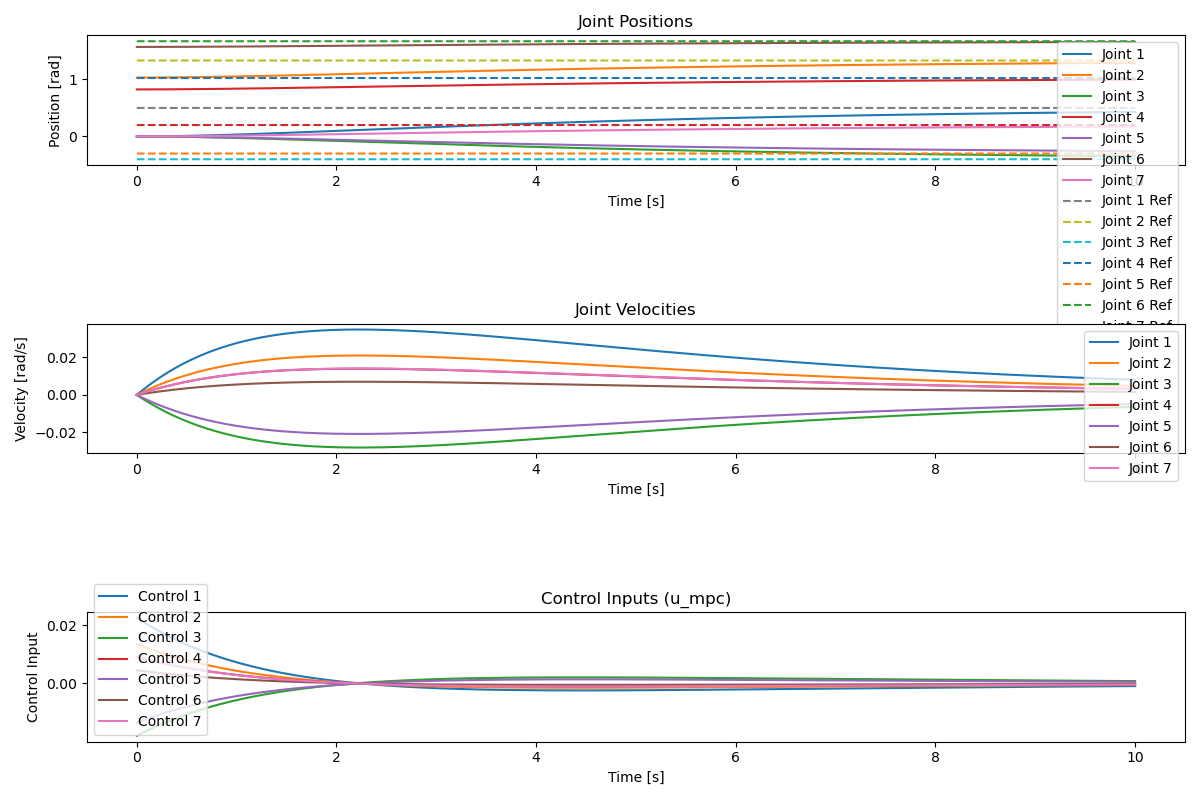
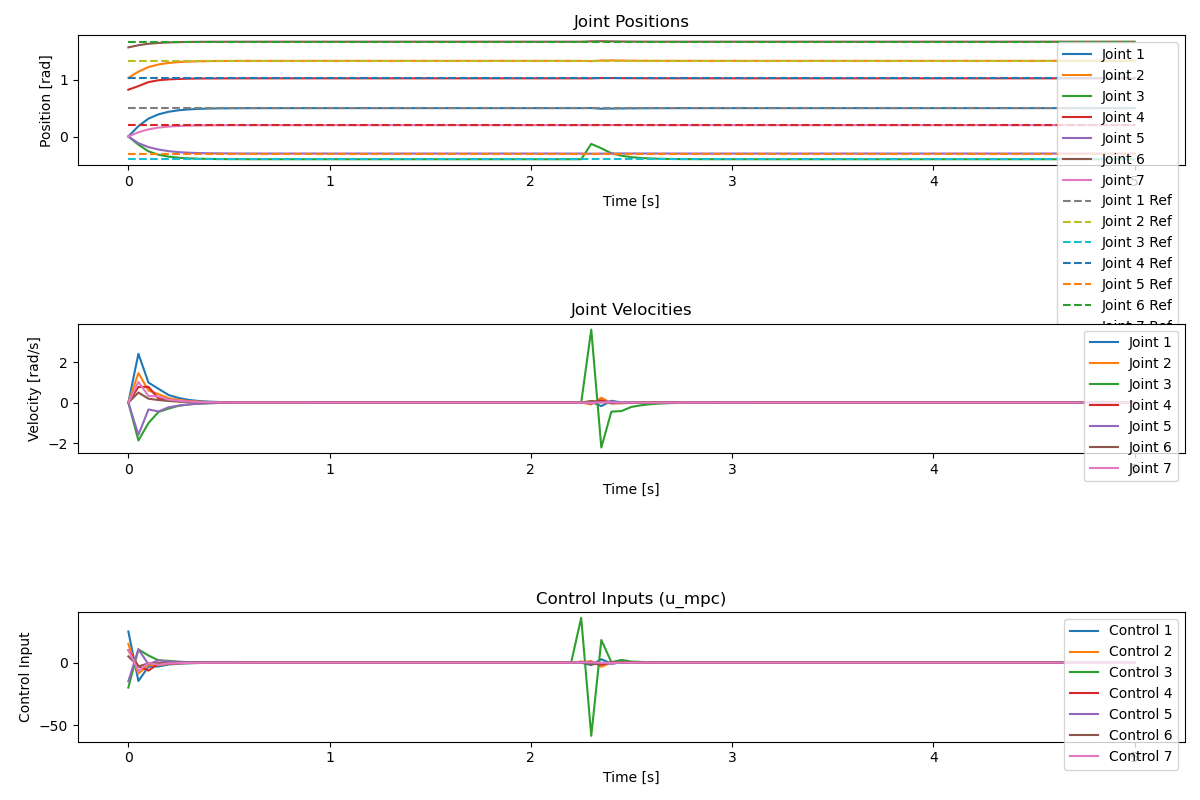
Task 2.2 completed

diff --git a/lab_sessions_COMP0211_PUBLIC/finals_Meng/task2/regulator_model.py b/lab_sessions_COMP0211_PUBLIC/finals_Meng/task2/regulator_model.py
@@ -38,16 +38,22 @@ class RegulatorModel:
 
 
     def propagation_model_regulator_fixed_std(self, x_ref=None):
-        S_bar = np.zeros((self.N*self.q, self.N*self.m))
-        T_bar = np.zeros((self.N*self.q, self.n))
-        Q_bar = np.zeros((self.N*self.q, self.N*self.q))
-        R_bar = np.zeros((self.N*self.m, self.N*self.m))
+        S_bar = np.zeros((self.N * self.q, self.N * self.m))
+        T_bar = np.zeros((self.N * self.q, self.n))
+        Q_bar = np.zeros((self.N * self.q, self.N * self.q))
+        R_bar = np.zeros((self.N * self.m, self.N * self.m))
 
         for k in range(1, self.N + 1):
-            for j in range(1, k + 1):
-                S_bar[(k-1)*self.q:k*self.q, (k-j)*self.m:(k-j+1)*self.m] = np.dot(np.dot(self.C, np.linalg.matrix_power(self.A, j-1)), self.B)
+            # Compute T_bar
+            T_bar_k = self.C @ np.linalg.matrix_power(self.A, k)
+            T_bar[(k-1)*self.q:k*self.q, :] = T_bar_k
 
-            T_bar[(k-1)*self.q:k*self.q, :self.n] = np.dot(self.C, np.linalg.matrix_power(self.A, k))
+            for j in range(1, k + 1):
+                # Compute S_bar
+                idx_row = (k-1)*self.q
+                idx_col = (j-1)*self.m
+                S_bar_kj = self.C @ np.linalg.matrix_power(self.A, k - j) @ self.B
+                S_bar[idx_row:idx_row + self.q, idx_col:idx_col + self.m] = S_bar_kj
 
             Q_bar[(k-1)*self.q:k*self.q, (k-1)*self.q:k*self.q] = self.Q
             R_bar[(k-1)*self.m:k*self.m, (k-1)*self.m:k*self.m] = self.R
@@ -56,9 +62,9 @@ class RegulatorModel:
         self.T_bar = T_bar
         self.Q_bar = Q_bar
         self.R_bar = R_bar
+
         if x_ref is not None:
-            self.x_ref_bar = np.kron(np.ones((self.N, 1)), x_ref)
-            self.x_ref_bar = self.x_ref_bar.flatten().reshape(-1, 1)
+            self.x_ref_bar = np.kron(np.ones((self.N, 1)), x_ref).flatten().reshape(-1, 1)
     
     def setSystemMatrices(self,delta_t,A,B):
         """
@@ -161,76 +167,30 @@ class RegulatorModel:
     # B_In input bound constraints (dict): A dictionary containing the input bound constraints.
     # B_Out output bound constraints (dict): A dictionary containing the output bound constraints.
     def regulator_W_std(self, B_Out, B_In):
-        # Check if 'min' fields are not empty and exist in B_Out and B_In
-        out_min_present = 'min' in B_Out and B_Out['min'] is not None
-        in_min_present = 'min' in B_In and B_In['min'] is not None
+        N, q, m = self.N, self.q, self.m
 
-        # if out_min_present:
-        #     if in_min_present:  # out min true, in min true
-        #         block1 = np.kron(np.ones((self.N, 1)), B_Out['max'])
-        #         block2 = np.kron(np.ones((self.N, 1)), -B_Out['min'])
-        #         block3 = np.kron(np.ones((self.N, 1)), B_In['max'])
-        #         block4 = np.kron(np.ones((self.N, 1)), -B_In['min'])
-        #     else:  # out min true, in min false
-        #         W = np.vstack([
-        #             np.kron(np.ones((self.N, 1)), B_Out['max']),
-        #             np.kron(np.ones((self.N, 1)), -B_Out['min']),
-        #             np.kron(np.ones((self.N, 1)), B_In['max']),
-        #             np.kron(np.ones((self.N, 1)), B_In['max'])
-        #         ])
-        # elif in_min_present:  # out min false, in min true
-        #     W = np.vstack([
-        #         np.kron(np.ones((self.N, 1)), B_Out['max']),
-        #         np.kron(np.ones((self.N, 1)), B_Out['max']),
-        #         np.kron(np.ones((self.N, 1)), B_In['max']),
-        #         np.kron(np.ones((self.N, 1)), B_In['min'])
-        #     ])
-        # else:  # out min false, in min false
-        #     W = np.vstack([
-        #         np.kron(np.ones((self.N, 1)), B_Out['max']),
-        #         np.kron(np.ones((self.N, 1)), B_Out['max']),
-        #         np.kron(np.ones((self.N, 1)), B_In['max']),
-        #         np.kron(np.ones((self.N, 1)), B_In['max'])
-        #     ])
+        # State constraints (upper and lower bounds)
+        block1 = np.kron(np.ones(N), B_Out['max'])   # Shape: (N * q,)
+        block2 = np.kron(np.ones(N), -B_Out['min'])  # Shape: (N * q,)
 
-        #if out_min_present:
-            #if in_min_present:  # out min true, in min true
-        block1 = np.kron(np.ones((self.N, 1)), B_Out['max'])
-        block2 = np.kron(np.ones((self.N, 1)), -B_Out['min'])
-        block3 = np.kron(np.ones((self.N, 1)), B_In['max'])
-        block4 = np.kron(np.ones((self.N, 1)), -B_In['min'])
-        #     else:  # out min true, in min false
-        #         block1 = np.kron(np.ones((self.N, 1)), B_Out['max'])
-        #         block2 = np.kron(np.ones((self.N, 1)), -B_Out['min'])
-        #         block3 = np.kron(np.ones((self.N, 1)), B_In['max'])
-        #         block4 = np.kron(np.ones((self.N, 1)), B_In['max'])  # Using max since min is not present
-        # else:
-        #     if in_min_present:  # out min false, in min true
-        #         block1 = np.kron(np.ones((self.N, 1)), B_Out['max'])
-        #         block2 = np.kron(np.ones((self.N, 1)), B_Out['max'])  # Repeating max since min is not present
-        #         block3 = np.kron(np.ones((self.N, 1)), B_In['max'])
-        #         block4 = np.kron(np.ones((self.N, 1)), -B_In['min'])
-        #     else:  # out min false, in min false
-        #         block1 = np.kron(np.ones((self.N, 1)), B_Out['max'])
-        #         block2 = np.kron(np.ones((self.N, 1)), B_Out['max'])
-        #         block3 = np.kron(np.ones((self.N, 1)), B_In['max'])
-        #         block4 = np.kron(np.ones((self.N, 1)), B_In['max'])
+        # Input constraints (upper and lower bounds)
+        block3 = np.kron(np.ones(N), B_In['max'])    # Shape: (N * m,)
+        block4 = np.kron(np.ones(N), -B_In['min'])   # Shape: (N * m,)
 
-        vec1 = block1.flatten().reshape(-1, 1)  
-        vec2 = block2.flatten().reshape(-1, 1)
-        vec3 = block3.flatten().reshape(-1, 1)
-        vec4 = block4.flatten().reshape(-1, 1)
+        # Combine all blocks into a single vector
+        W = np.concatenate([block1, block2, block3, block4]).reshape(-1, 1)  # Shape: ((2 * N * q + 2 * N * m), 1)
 
-        # Step 3: Vertically stack all vectors
-        W = np.vstack([vec1, vec2, vec3, vec4])  
         return W
 
     # added function to compute constraints matrices
-    def setConstraintsMatrices(self,B_in,B_out):
-
+    def setConstraintsMatrices(self, B_in, B_out):
         self.G = self.regulator_G_std(self.S_bar)
         self.S = self.regulator_S_std(self.T_bar)
         self.W = self.regulator_W_std(B_out, B_in)
+        # Optional: Print shapes for debugging
+        print(f"G shape: {self.G.shape}")
+        print(f"W shape: {self.W.shape}")
+        print(f"S shape: {self.S.shape}")
     
 
     # add constraints to the optimization problem
@@ -247,8 +207,9 @@ class RegulatorModel:
              # Constraint function
              def constraint(z, G, W, S, x0_mpc):
                  W_flat = W.flatten()
-                 # here we use inequality constraints of type Gz <= W + Sx0      +W+Sx0 -Gz >=  0
-                 return (+W_flat + S @ x0_mpc) -G @ z
+                 lhs = W_flat + (S @ x0_mpc).flatten()  # Shape: (Number of constraints,)
+                 rhs = (G @ z).flatten()                # Shape: (Number of constraints,)
+                 return lhs - rhs
 
              # Constraints dictionary
              cons = {'type': 'ineq', 'fun': constraint, 'args': (self.G, self.W, self.S, x0_mpc)}
@@ -260,8 +221,8 @@ class RegulatorModel:
 
          # Options to increase numerical accuracy
          options_dict = {
-             'ftol': 1e-12,        # Increase precision goal for the objective function 
-             'eps': 1e-12,         # Smaller step size for gradient approximation
+             'ftol': 1e-8,        # Increase precision goal for the objective function 
+             'eps': 1e-10,         # Smaller step size for gradient approximation
              'maxiter': 1000,      # Allow more iterations to find a more accurate solution
              'disp': False          # Display convergence messages for debugging
          }

diff --git a/lab_sessions_COMP0211_PUBLIC/finals_Meng/task2/main.py b/lab_sessions_COMP0211_PUBLIC/finals_Meng/task2/main.py
@@ -37,7 +37,6 @@ def main():
 
     # getting time step
     time_step = sim.GetTimeStep()
-    
 
     # initializing MPC
      # Define the matrices
@@ -52,7 +51,7 @@ def main():
     #
     # where each block is a 7x7 matrix.
 
-    A_cont = np.zeros((num_states, num_states))  # 14x14 matrix
+    A_cont = np.zeros((num_states, num_states))
     A_cont[0:num_joints, num_joints:num_states] = np.eye(num_joints)
 
     # Construct B matrix
@@ -64,19 +63,25 @@ def main():
 
     B_cont = np.zeros((num_states, num_controls))  # 14x7 matrix
     B_cont[num_joints:num_states, :] = np.eye(num_controls)
-    #A_cont = None
-    #B_cont = None
+    
+    #Verify Matrix Dimensions
+    assert A_cont.shape == (num_states, num_states), "A_cont dimensions are incorrect."
+    assert B_cont.shape == (num_states, num_controls), "B_cont dimensions are incorrect."
+    
+    # Discretise the Matrices
+    
     #Horizon length
     N_mpc = 10
     # Initialize the regulator model
     regulator = RegulatorModel(N_mpc, num_states, num_controls, num_states,constr_flag=constraints_flag)
     # define system matrices
     regulator.setSystemMatrices(time_step,A_cont,B_cont)
+
     # Define the cost matrices
 
-    Qcoeff_joint_pos = [100] * num_controls
+    Qcoeff_joint_pos = [500] * num_controls
     Qcoeff_joint_vel = [5] * num_controls
-    # making one vectro Qcoeff
+    # making one vector Qcoeff
     Qcoeff = np.hstack((Qcoeff_joint_pos, Qcoeff_joint_vel))
     Rcoeff = [0.1]*num_controls
 
@@ -89,12 +94,51 @@ def main():
     #x_ref = goal_joints
     x_ref = np.hstack([goal_joints, desired_velocities])
     regulator.propagation_model_regulator_fixed_std(x_ref)
+    regulator.compute_H_and_F()
     B_in = {'max': np.array([100000000000000] * num_controls), 'min': np.array([-1000000000000] * num_controls)}
     B_out = {'max': np.array([100000000]*num_states), 'min': np.array([-100000000]*num_states)}
     # creating constraints matrices
     regulator.setConstraintsMatrices(B_in,B_out)
     regulator.compute_H_and_F()
 
+    # Define tight constraints for joints 1, 2, and 3
+    joint_min_bounds = np.array([-0.5, -1.5, -10.5])
+    joint_max_bounds = np.array([0.5, 1.5, 10.5])
+
+    # For the rest of the joints, set large bounds
+    large_number = 1e6
+    joint_min_bounds_full = np.concatenate((joint_min_bounds, [-large_number] * (num_states - len(joint_min_bounds))))
+    joint_max_bounds_full = np.concatenate((joint_max_bounds, [large_number] * (num_states - len(joint_max_bounds))))
+
+    # Ensure the full bounds are NumPy arrays
+    joint_min_bounds_full = np.array(joint_min_bounds_full)
+    joint_max_bounds_full = np.array(joint_max_bounds_full)
+
+    # Define state constraints
+    B_out = {
+        'min': joint_min_bounds_full,
+        'max': joint_max_bounds_full
+    }
+
+    # Input constraints (assuming large bounds)
+    B_in = {
+        'min': np.full(num_controls, -large_number),
+        'max': np.full(num_controls, large_number)
+    }
+
+    # Set constraints in the regulator
+    regulator.setConstraintsMatrices(B_in, B_out)
+    
+    # Recompute S_bar and T_bar with the updated constraints
+    regulator.propagation_model_regulator_fixed_std(x_ref)
+    regulator.compute_H_and_F()
+    
+    print(f"S_bar shape: {regulator.S_bar.shape}")
+    print(f"T_bar shape: {regulator.T_bar.shape}")
+    print(f"G shape: {regulator.G.shape}")
+    print(f"W shape: {regulator.W.shape}")
+    print(f"S shape: {regulator.S.shape}")
+    
     # Data storage
     q_mes_all, qd_mes_all, u_mpc_all, time_all = [], [], [], []
 
@@ -104,9 +148,7 @@ def main():
     current_time = 0.0
     total_time = 5.0
 
-    while current_time < 10.0:
-
-
+    while current_time < total_time:
         # Measured state 
         q_mes = sim.GetMotorAngles(0)
         qd_mes = sim.GetMotorVelocities(0)
@@ -127,7 +169,7 @@ def main():
         time_all.append(current_time)
         
         # Return the optimal control sequence
-        u_mpc = u_mpc[0:num_controls] 
+        u_mpc = u_mpc[:num_controls] 
         tau_cmd = dyn_cancel(dyn_model, q_mes, qd_mes, u_mpc)
         cmd.SetControlCmd(tau_cmd, ["torque"]*7)
         sim.Step(cmd, "torque")
